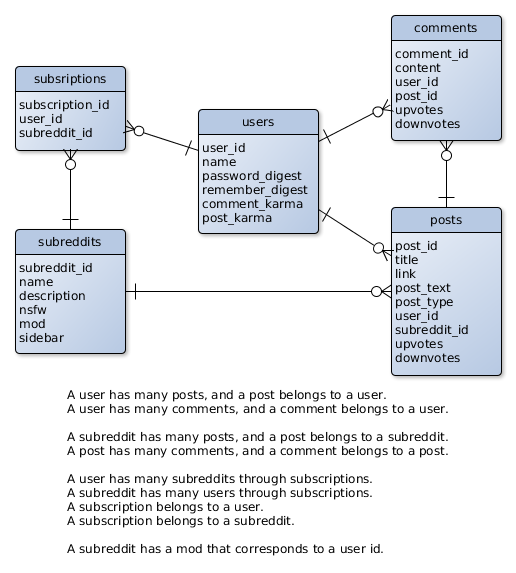
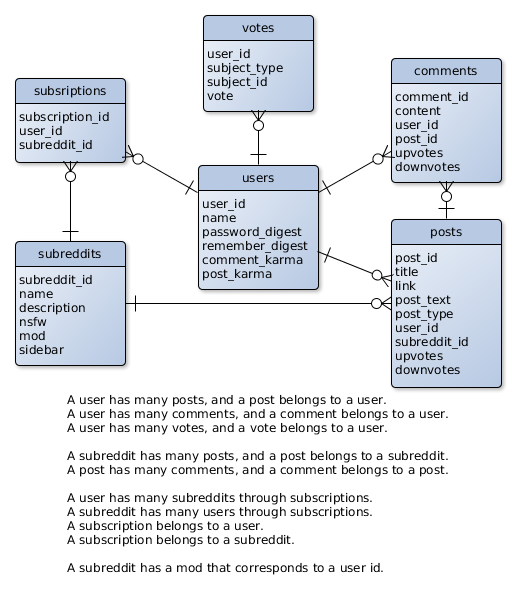
Added votes
Added the votes table and model. Added users association.

diff --git a/planning/micro_reddit_data_model.html b/planning/micro_reddit_data_model.html
@@ -95,15 +95,17 @@ tooltip.style.display = "none";
 <div class="tooltip" id="n2">posts</div>
 <div class="tooltip" id="n3">comments</div>
 <div class="tooltip" id="n4">subsriptions</div>
-<div class="tooltip" id="n5">A user has many posts, and a post belongs to a user.<br>A user has many comments, and a comment belongs to a user.<br><br>A subreddit has many posts, and a post belongs to a subreddit.<br>A post has many comments, and a comment belongs to a post.<br><br>A user has many subreddits through subscriptions.<br>A subreddit has many users through subscriptions.<br>A subscription belongs to a user.<br>A subscription belongs to a subreddit.<br><br>A subreddit has a mod that corresponds to a user id.</div>
+<div class="tooltip" id="n5">A user has many posts, and a post belongs to a user.<br>A user has many comments, and a comment belongs to a user.<br>A user has many votes, and a vote belongs to a user.<br><br>A subreddit has many posts, and a post belongs to a subreddit.<br>A post has many comments, and a comment belongs to a post.<br><br>A user has many subreddits through subscriptions.<br>A subreddit has many users through subscriptions.<br>A subscription belongs to a user.<br>A subscription belongs to a subreddit.<br><br>A subreddit has a mod that corresponds to a user id.</div>
+<div class="tooltip" id="n6">votes</div>
 
 <map name="image1_1">
-  <area shape="rect" coords="15,388,501,556" alt="" onmouseover="showTooltip('n5')" onmouseout="hideTooltip()"/>
-  <area shape="rect" coords="15,66,125,150" alt="" onmouseover="showTooltip('n4')" onmouseout="hideTooltip()"/>
-  <area shape="rect" coords="391,15,501,140" alt="" onmouseover="showTooltip('n3')" onmouseout="hideTooltip()"/>
-  <area shape="rect" coords="391,207,501,375" alt="" onmouseover="showTooltip('n2')" onmouseout="hideTooltip()"/>
-  <area shape="rect" coords="15,229,125,353" alt="" onmouseover="showTooltip('n1')" onmouseout="hideTooltip()"/>
-  <area shape="rect" coords="198,109,318,233" alt="" onmouseover="showTooltip('n0')" onmouseout="hideTooltip()"/>
+  <area shape="rect" coords="203,15,313,111" alt="" onmouseover="showTooltip('n6')" onmouseout="hideTooltip()"/>
+  <area shape="rect" coords="15,400,501,568" alt="" onmouseover="showTooltip('n5')" onmouseout="hideTooltip()"/>
+  <area shape="rect" coords="15,78,125,162" alt="" onmouseover="showTooltip('n4')" onmouseout="hideTooltip()"/>
+  <area shape="rect" coords="391,58,501,182" alt="" onmouseover="showTooltip('n3')" onmouseout="hideTooltip()"/>
+  <area shape="rect" coords="391,219,501,387" alt="" onmouseover="showTooltip('n2')" onmouseout="hideTooltip()"/>
+  <area shape="rect" coords="15,241,125,365" alt="" onmouseover="showTooltip('n1')" onmouseout="hideTooltip()"/>
+  <area shape="rect" coords="198,165,318,289" alt="" onmouseover="showTooltip('n0')" onmouseout="hideTooltip()"/>
 </map>
 
 

diff --git a/db/schema.rb b/db/schema.rb
@@ -10,7 +10,7 @@
 #
 # It's strongly recommended that you check this file into your version control system.
 
-ActiveRecord::Schema.define(version: 20170312194142) do
+ActiveRecord::Schema.define(version: 20170313205952) do
 
   create_table "comments", force: :cascade do |t|
     t.text     "content"
@@ -70,6 +70,14 @@ ActiveRecord::Schema.define(version: 20170312194142) do
     t.integer  "comment_karma",   default: 0
     t.integer  "post_karma",      default: 0
     t.index ["name"], name: "index_users_on_name", unique: true
+  end
+
+  create_table "votes", force: :cascade do |t|
+    t.integer "user_id",      null: false
+    t.integer "subject_type", null: false
+    t.integer "subject_id",   null: false
+    t.integer "vote",         null: false
+    t.index ["user_id"], name: "index_votes_on_user_id", unique: true
   end
 
 end

diff --git a/app/models/vote.rb b/app/models/vote.rb
@@ -1,0 +1,10 @@
+class User < ApplicationRecord
+  belongs_to :user
+
+  validates :user_id,      presence: true
+  validates :subject_id,   presence: true
+  validates :subject_type, presence: true,
+                           inclusion: { in: [ 0, 1 ] }
+  validates :vote,         presence: true,
+                           inclusion: { in: [ 0, 1 ] }
+end

diff --git a/db/migrate/20170313202831_create_votes_table.rb b/db/migrate/20170313202831_create_votes_table.rb
@@ -1,0 +1,10 @@
+class CreateVotesTable < ActiveRecord::Migration[5.0]
+  def change
+    create_table :votes do |t|
+      t.integer "user_id",      null: false, unique: true
+      t.integer "subject_type", null: false
+      t.integer "subject_id",   null: false
+      t.integer "vote",         null: false
+    end
+  end
+end

diff --git a/app/models/user.rb b/app/models/user.rb
@@ -2,6 +2,7 @@ class User < ApplicationRecord
   has_many :subscriptions
   has_many :posts
   has_many :comments
+  has_many :votes
   has_many :subreddits, through: :subscriptions
 
   before_save :downcase_name

diff --git a/db/migrate/20170313205952_add_userid_index_to_votes.rb b/db/migrate/20170313205952_add_userid_index_to_votes.rb
@@ -1,0 +1,5 @@
+class AddUseridIndexToVotes < ActiveRecord::Migration[5.0]
+  def change
+    add_index :votes, :user_id, unique: true
+  end
+end
